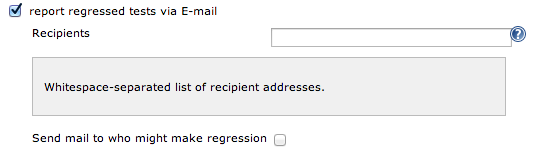
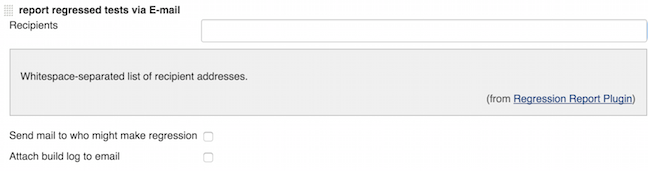
Added feature to attach build log to email

diff --git a/src/main/java/jp/skypencil/jenkins/regression/RegressionReportNotifier.java b/src/main/java/jp/skypencil/jenkins/regression/RegressionReportNotifier.java
@@ -4,6 +4,7 @@ import static com.google.common.collect.Iterables.transform;
 import hudson.Extension;
 import hudson.Launcher;
 import hudson.Util;
+import hudson.console.AnnotatedLargeText;
 import hudson.model.BuildListener;
 import hudson.model.Result;
 import hudson.model.AbstractBuild;
@@ -18,20 +19,30 @@ import hudson.tasks.junit.CaseResult;
 import hudson.tasks.test.AbstractTestResultAction;
 import hudson.tasks.test.TestResult;
 
+import java.io.ByteArrayOutputStream;
+import java.io.IOException;
 import java.io.PrintStream;
 import java.util.Date;
 import java.util.List;
 import java.util.Set;
 import java.util.StringTokenizer;
 
+import javax.activation.DataHandler;
+import javax.activation.DataSource;
+import javax.activation.FileDataSource;
 import javax.mail.Address;
+import javax.mail.BodyPart;
 import javax.mail.Message.RecipientType;
 import javax.mail.MessagingException;
+import javax.mail.Multipart;
 import javax.mail.Session;
 import javax.mail.Transport;
 import javax.mail.internet.AddressException;
 import javax.mail.internet.InternetAddress;
+import javax.mail.internet.MimeBodyPart;
 import javax.mail.internet.MimeMessage;
+import javax.mail.internet.MimeMultipart;
+import javax.mail.util.ByteArrayDataSource;
 
 import jenkins.model.Jenkins;
 import jenkins.model.JenkinsLocationConfiguration;
@@ -55,6 +66,7 @@ public final class RegressionReportNotifier extends Notifier {
     private static final int MAX_RESULTS_PER_MAIL = 20;
     private final String recipients;
     private final boolean sendToCulprits;
+    private final boolean attachLog;
     private MailSender mailSender = new RegressionReportNotifier.MailSender() {
         @Override
         public void send(MimeMessage message) throws MessagingException {
@@ -62,10 +74,17 @@ public final class RegressionReportNotifier extends Notifier {
         }
     };
 
-    @DataBoundConstructor
     public RegressionReportNotifier(String recipients, boolean sendToCulprits) {
         this.recipients = recipients;
         this.sendToCulprits = sendToCulprits;
+        this.attachLog = false;
+    }
+
+    @DataBoundConstructor
+    public RegressionReportNotifier(String recipients, boolean sendToCulprits, boolean attachLog) {
+        this.recipients = recipients;
+        this.sendToCulprits = sendToCulprits;
+        this.attachLog = attachLog;
     }
 
     @VisibleForTesting
@@ -86,9 +105,13 @@ public final class RegressionReportNotifier extends Notifier {
         return sendToCulprits;
     }
 
+    public boolean getAttachLog() {
+        return attachLog;
+    }
+
     @Override
     public boolean perform(AbstractBuild<?, ?> build, Launcher launcher,
-            BuildListener listener) throws InterruptedException {
+            BuildListener listener) throws InterruptedException, IOException {
         PrintStream logger = listener.getLogger();
 
         if (build.getResult() == Result.SUCCESS) {
@@ -144,7 +167,7 @@ public final class RegressionReportNotifier extends Notifier {
 
     private void mailReport(List<CaseResult> regressions, String recipients,
             BuildListener listener, AbstractBuild<?, ?> build)
-            throws MessagingException {
+            throws MessagingException, IOException {
         if (regressions.isEmpty()) {
             return;
         }
@@ -195,6 +218,10 @@ public final class RegressionReportNotifier extends Notifier {
         message.setText(builder.toString());
         message.setSentDate(new Date());
 
+        if (attachLog) {
+            attachLogFile(build, message, builder.toString());
+        } 
+
         mailSender.send(message);
     }
 
@@ -220,6 +247,27 @@ public final class RegressionReportNotifier extends Notifier {
         }
 
         return list;
+    }
+
+    private void attachLogFile(AbstractBuild<?, ?> build, MimeMessage message, String content)
+            throws MessagingException, IOException {
+
+        Multipart multipart = new MimeMultipart();
+
+        BodyPart bodyText = new MimeBodyPart();
+        bodyText.setText(content);
+        multipart.addBodyPart(bodyText);
+
+        ByteArrayOutputStream out = new ByteArrayOutputStream();
+        build.getLogText().writeLogTo(0, out);
+
+        BodyPart emailAttachment = new MimeBodyPart();
+        DataSource source = new ByteArrayDataSource(out.toByteArray(), "text/plain");
+        emailAttachment.setDataHandler(new DataHandler(source));
+        emailAttachment.setFileName("buildLog.txt");
+        multipart.addBodyPart(emailAttachment);
+
+        message.setContent(multipart);
     }
 
     @Extension

diff --git a/src/test/java/jp/skypencil/jenkins/regression/RegressionReportNotifierTest.java b/src/test/java/jp/skypencil/jenkins/regression/RegressionReportNotifierTest.java
@@ -2,11 +2,13 @@ package jp.skypencil.jenkins.regression;
 
 import static org.hamcrest.CoreMatchers.equalTo;
 import static org.hamcrest.CoreMatchers.is;
+import static org.hamcrest.CoreMatchers.nullValue;
 import static org.hamcrest.CoreMatchers.notNullValue;
 import static org.junit.Assert.assertThat;
 import static org.powermock.api.mockito.PowerMockito.doReturn;
 import static org.powermock.api.mockito.PowerMockito.mock;
 import hudson.Launcher;
+import hudson.console.AnnotatedLargeText;
 import hudson.model.BuildListener;
 import hudson.model.Result;
 import hudson.model.AbstractBuild;
@@ -15,13 +17,18 @@ import hudson.tasks.junit.CaseResult;
 import hudson.tasks.junit.CaseResult.Status;
 import hudson.tasks.test.AbstractTestResultAction;
 
+import java.io.File;
 import java.io.IOException;
 import java.io.PrintStream;
+import java.nio.charset.Charset;
 import java.util.List;
 
 import javax.mail.Address;
 import javax.mail.Message.RecipientType;
 import javax.mail.MessagingException;
+import javax.mail.Multipart;
+import javax.mail.Part;
+import javax.mail.internet.MimeBodyPart;
 import javax.mail.internet.MimeMessage;
 
 import org.junit.Before;
@@ -60,7 +67,7 @@ public class RegressionReportNotifierTest {
     }
 
     @Test
-    public void testSend() throws InterruptedException, MessagingException {
+    public void testSend() throws InterruptedException, MessagingException, IOException {
         makeRegression();
 
         RegressionReportNotifier notifier = new RegressionReportNotifier(
@@ -78,7 +85,7 @@ public class RegressionReportNotifierTest {
 
     @Test
     public void testSendToCulprits() throws InterruptedException,
-            MessagingException {
+            MessagingException, IOException {
         makeRegression();
 
         RegressionReportNotifier notifier = new RegressionReportNotifier(
@@ -108,6 +115,36 @@ public class RegressionReportNotifierTest {
         doReturn(Status.REGRESSION).when(failedTest).getStatus();
         List<CaseResult> failedTests = Lists.newArrayList(failedTest);
         doReturn(failedTests).when(result).getFailedTests();
+    }
+
+    @Test
+    public void testAttachLogFile() throws InterruptedException, MessagingException, IOException {
+        makeRegression();
+
+        File f = new File(getClass().getResource("/log").getPath());
+        AnnotatedLargeText text = new AnnotatedLargeText(f, Charset.defaultCharset(), false, build);
+        doReturn(text).when(build).getLogText();
+        doReturn(f.getAbsoluteFile().getParentFile()).when(build).getRootDir();
+
+        RegressionReportNotifier notifier = new RegressionReportNotifier("author@mail.com", false, true);
+        MockedMailSender mailSender = new MockedMailSender();
+        notifier.setMailSender(mailSender);
+
+        assertThat(build.getLogText(), is(notNullValue()));
+        assertThat(notifier.perform(build, launcher, listener), is(true));
+        assertThat(mailSender.getSentMessage(), is(notNullValue()));
+
+        Address[] to = mailSender.getSentMessage().getRecipients(RecipientType.TO);
+        assertThat(to.length, is(1));
+        assertThat(to[0].toString(), is(equalTo("author@mail.com")));
+
+        assertThat(notifier.getAttachLog(), is(true));
+        assertThat(mailSender.getSentMessage().getContent() instanceof Multipart, is(true));
+
+        Multipart multipartContent = (Multipart) mailSender.getSentMessage().getContent();
+        assertThat(multipartContent.getCount(), is(2));
+        assertThat(((MimeBodyPart)multipartContent.getBodyPart(1)).getDisposition(), is(equalTo(Part.ATTACHMENT)));
+        assertThat(((MimeBodyPart)multipartContent.getBodyPart(0)).getDisposition(), is(nullValue()));
     }
 
     private static final class MockedMailSender implements

diff --git a/README.md b/README.md
@@ -37,6 +37,9 @@ Changelog
 ### 1.4
 - upgrade Jenkins to the latest LTS (1.609.3)
 
+### 1.5
+- attach build log to email
+
 Copyright and license
 ---------------------
 Copyright 2012-2015 Kengo TODA (eller86)
